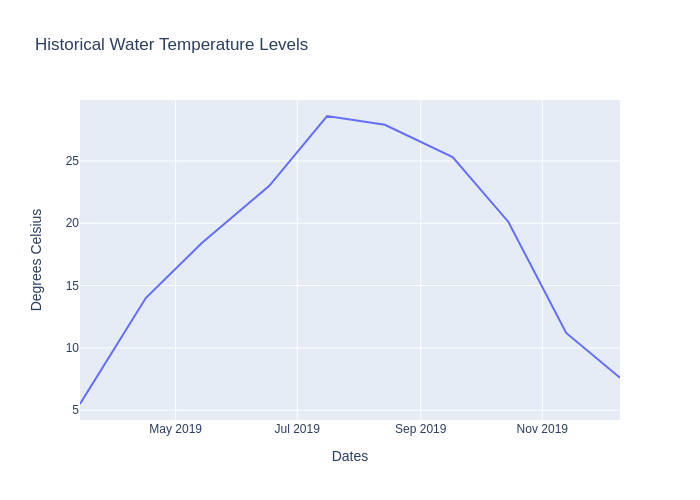
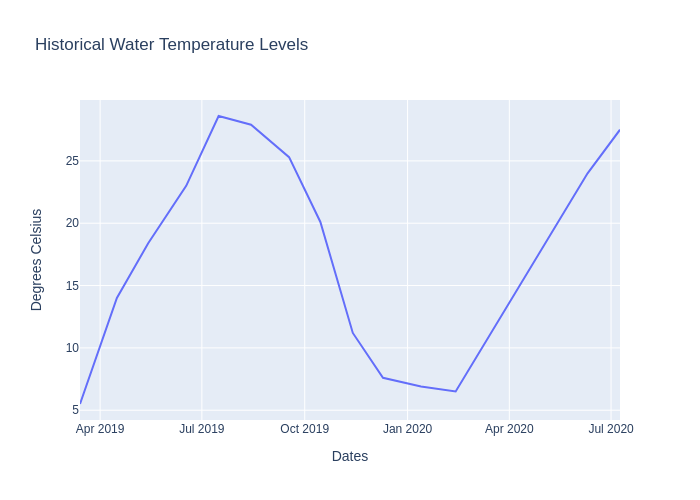
Deploy IzzyFad/NorthropGrumman-HIP to github.com/IzzyFad/NorthropGrumman-HIP.git:gh-pages

diff --git a/docs/index.html b/docs/index.html
@@ -49,11 +49,11 @@
     <div id="levels">
       <div id="left-side">
           <p> CURRENT* LEVELS: </p>
-          <p> <span class="highlight"> WATER TEMPERATURE </span> 7.6 &deg;C </p>
-          <p> <span class="highlight"> PHOSPHATE LEVELS </span>  0.0383 mg/L </p>
-          <p> <span class="highlight"> TURBIDITY </span> 0.9 Meters  </p>
-          <p> <span class="highlight"> OXYGEN LEVELS </span>  9.9 mg/L </p>
-          <p> <span class="highlight"> NITRATE LEVELS </span>  0.739 mg/L  </p>
+          <p> <span class="highlight"> WATER TEMPERATURE </span> 27.5 &deg;C </p>
+          <p> <span class="highlight"> PHOSPHATE LEVELS </span>  0.0591 mg/L </p>
+          <p> <span class="highlight"> TURBIDITY </span> 0.7 Meters  </p>
+          <p> <span class="highlight"> OXYGEN LEVELS </span>  1.2 mg/L </p>
+          <p> <span class="highlight"> NITRATE LEVELS </span>  0.83 mg/L  </p>
         </div>
         <div id="right-side">
           <p> Barriers/Max Levels: </p>
@@ -65,7 +65,7 @@
         </div>
       </div>
     <div id="updated-as-of">
-      <p> *UPDATED AS OF  02-26-2019 <br />
+      <p> *UPDATED AS OF  03-05-2019 <br />
           SEE ABOUT PAGE FOR INFORMATION ON DATA SOURCE
       </p>
       <div id="disclaimer">

diff --git a/docs/phosphate.html b/docs/phosphate.html
@@ -53,10 +53,10 @@
       <div id="updated-value">
         <h1> <span class="highlight-alt"> &nbsp; MOST RECENT DATA VALUE: &nbsp; </span> </h1>
         <div id="placeholder-value">
-          <h1> 0.0383 mg/L </h1>
+          <h1> 0.0591 mg/L </h1>
         </div>
         <div id="placeholder-value">
-          <h1> 2019-12-10 </h1>
+          <h1> 2020-07-09 </h1>
         </div>
       </div>
     </div>

diff --git a/docs/watertemp.html b/docs/watertemp.html
@@ -53,10 +53,10 @@
       <div id="updated-value">
         <h1> <span class="highlight-alt"> &nbsp; MOST RECENT DATA VALUE: &nbsp; </span> </h1>
         <div id="placeholder-value">
-          <h1> 7.6 &deg;C </h1>
+          <h1> 27.5 &deg;C </h1>
         </div>
         <div id="placeholder-value">
-          <h1> 2019-12-10 </h1>
+          <h1> 2020-07-09 </h1>
         </div>
       </div>
     </div>

diff --git a/docs/turbidity.html b/docs/turbidity.html
@@ -53,10 +53,10 @@
       <div id="updated-value">
         <h1> <span class="highlight-alt"> &nbsp; MOST RECENT DATA VALUE: &nbsp; </span> </h1>
         <div id="placeholder-value">
-          <h1> 0.9 Meters </h1>
+          <h1> 0.7 Meters </h1>
         </div>
         <div id="placeholder-value">
-          <h1> 2019-12-10 </h1>
+          <h1> 2020-07-09 </h1>
         </div>
       </div>
     </div>

diff --git a/docs/nitrate.html b/docs/nitrate.html
@@ -53,10 +53,10 @@
       <div id="updated-value">
         <h1> <span class="highlight-alt"> &nbsp; MOST RECENT DATA VALUE: &nbsp; </span> </h1>
         <div id="placeholder-value">
-          <h1> 0.739 mg/L </h1>
+          <h1> 0.83 mg/L </h1>
         </div>
         <div id="placeholder-value">
-          <h1> 2019-12-10 </h1>
+          <h1> 2020-07-09 </h1>
         </div>
       </div>
     </div>

diff --git a/docs/oxygen.html b/docs/oxygen.html
@@ -53,10 +53,10 @@
       <div id="updated-value">
         <h1> <span class="highlight-alt"> &nbsp; MOST RECENT DATA VALUE: &nbsp; </span> </h1>
         <div id="placeholder-value">
-          <h1> 9.9 mg/L </h1>
+          <h1> 1.2 mg/L </h1>
         </div>
         <div id="placeholder-value">
-          <h1> 2019-12-10 </h1>
+          <h1> 2020-07-09 </h1>
         </div>
       </div>
     </div>
